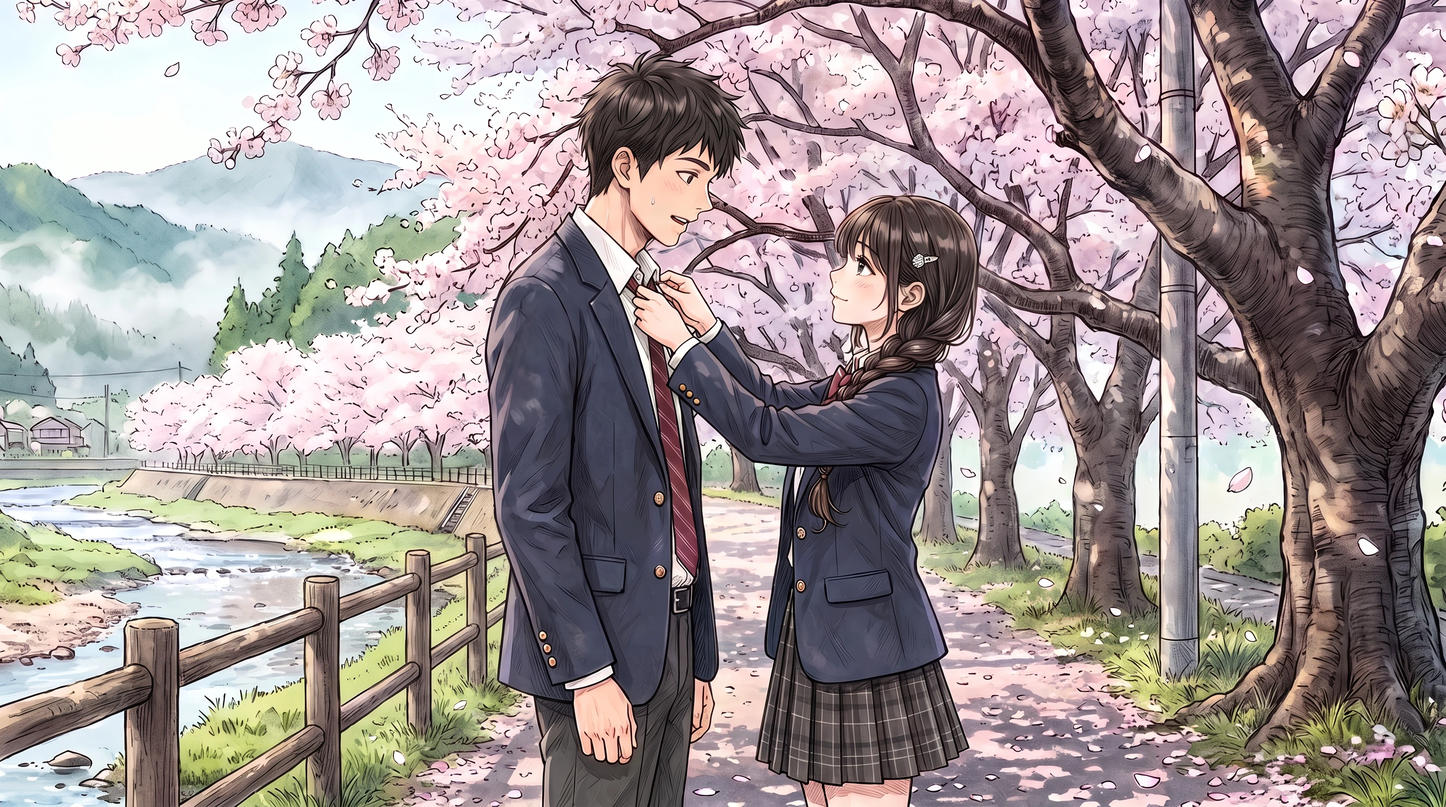
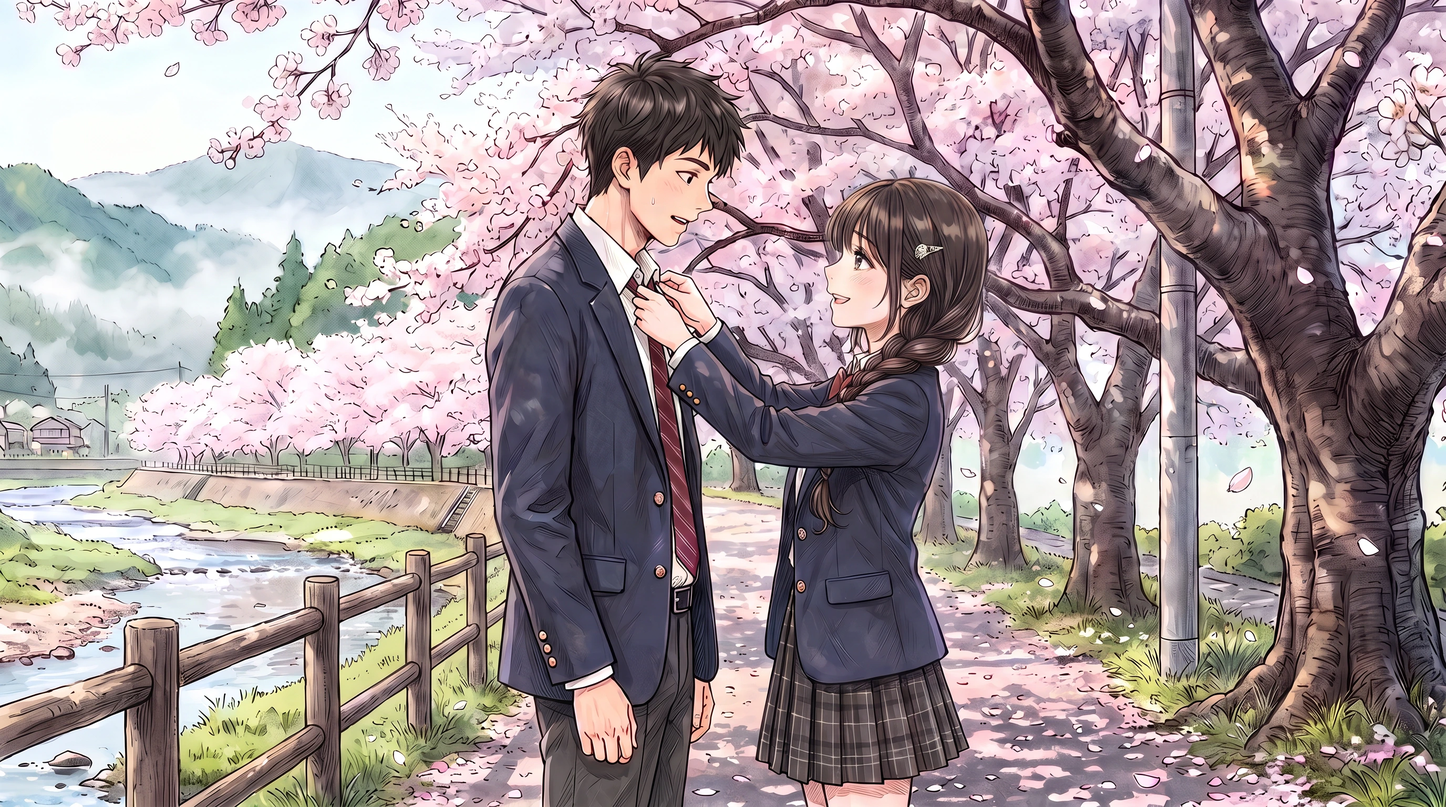
Pilot v2 Ch1: collar CG head-size edit (measured 0.77x crown to chin, 0.88x eye to chin); log and ledger
Claude-Session: https://claude.ai/code/session_01RwxJ99cbnypmrRJW8WLjFt

diff --git a/production/pilot-v2/art/prompts.md b/production/pilot-v2/art/prompts.md
@@ -15,7 +15,8 @@ Refs are raw GitHub URLs (`https://raw.githubusercontent.com/thefirstmccabe/ozak
 - **Current version (Oct 17, after the fifth check):** prompting alone kept getting her scale and the location wrong, so this one starts from a **layout sketch** (`production/pipeline/vn/cg_layout.py` → `production/pilot-v2/art/layout/cg_collar_layout.jpg`): a crop of `img/bg/bg_river_morning.webp` with Kōhei (`inventory/full-kohei.png`, mirrored) and Nanoha (`img/ch/nanoha_school_smile.webp`, lifted 2 in for her toes) pasted at their true heights (32 px per inch, frame bottom 24 in above the ground). Nanoha now stands on the right facing left, so her braid and clip (her left side) face the camera.
 - `fal-ai/nano-banana-pro/edit`, 2K, 16:9. Refs: the layout, `img/ch/nanoha_school_smile.webp`, `v2/img/face/kohei_smile.webp`. 2 takes; **picked seed 62**. Both takes moved the fence between them, so one edit moved it behind him ("Move the wooden fence to the LEFT of the boy, so it runs behind him along the top of the grassy embankment, between him and the river. Both of them now stand together on the same petal-strewn path …").
 - Prompt (key lines): "Repaint image 1 into one finished, seamless illustration in the same style. Image 1 is a layout: keep the location exactly as it is … keep both characters exactly where they stand and exactly this size. Do not shrink or enlarge either of them … Change only their poses: they turn to face each other … Kohei … turns right toward her, head tilted down, looking down at her … Nanoha … turns left toward him and stands up on her toes, both arms raised and bent upward, her hands at his neck folding his white shirt collar down … Her thick braid and her hair clip are on her left side, which now faces the viewer …" plus the uniform, style and color lines.
-- **Result:** both on the path, the fence between him and the river, her head at his chin, her head about 0.8× his (real proportions would be nearer 0.95), braid and clip on the visible side, arms raised.
+- **Then a head-size edit** (the sixth check measured her head at 0.6–0.65× his; Claude's earlier "about 0.8" was an eyeball estimate and wrong): "Redraw the girl with her head and shoulders about one third larger, so her head is nearly the same size as the boy's head, while the top of her head stays exactly where it is now … shorten her torso to match … Her two forearms stay clearly separate, and her fingertips hold the points of his white shirt collar …"
+- **Result (measured on a pixel grid):** her head is 0.77× his crown to chin and 0.88× eye to chin; the top of her head sits just below his eye line, right for 4′11″ on full tiptoe against 5′9″; both on the path, the fence between him and the river, braid and clip on the visible side, arms raised. **Measure head ratios on a grid; don't eyeball them.**
 - **For later two-character CGs:** start from a layout sketch at true heights; expect the model to drift on positions anyway and plan one edit pass; choose the side each character faces from their signature features.
 
 ### Fourth-review version (superseded)

diff --git a/story/production-log.md b/story/production-log.md
@@ -150,12 +150,13 @@ The old working bible (`ozakura/story-bible.md`) was retired Oct 8. Its contents
 | 10-17 | **Third independent review** (of the second round's fixes): the mirrored collar CG had also reversed the riverside against the background shown just before it, and the CG drew Nanoha about 5 inches too tall. **Redrawn** to match `bg_river_morning`, with her head reaching only his chin and her arms raised; her braid and clip (her left side) are on the far side in this view. A fast tap during the falter crossfade no longer cuts. In the interlude Natsuki now leans on the desk in front of hers (her sprite stands). Pilot notes list the remaining v2 [P] details. |
 | 10-17 | **Fourth independent check** (the new collar CG and the tap fix): the CG met "her head at his chin" by drawing her whole figure smaller (her head about two-thirds of his, so she read younger), stood them off the path, and lost her braid. **Redrawn again** with the cast lineup as a size reference: heads nearly the same size, both on the path, her braid hanging forward from her far (left) shoulder. A tap before the falter image has loaded no longer blinks the CG. |
 | 10-17 | **Fifth check** (collar CG only) still found her figure drawn small, the fence moved, and her hair off-model. **New method:** the CG is painted over a layout sketch with both characters pasted at their true heights on the river-path plate (`production/pipeline/vn/cg_layout.py`); Nanoha now faces left so her braid and clip face the camera. Both stand on the path with the fence behind him; her head comes to his chin. Method noted in `production/pilot-v2/art/prompts.md` for later two-character CGs. |
+| 10-17 | **Sixth check** (collar CG): her head measured 0.6–0.65× his (Claude had estimated 0.8 by eye, which was wrong). One edit enlarged her head and shoulders: now 0.77× crown to chin, 0.88× eye to chin, the top of her head just below his eyes on full tiptoe. Remaining nits a viewer won't notice at iPad size: the pole's yellow band is missing; her face is a little rounder than her sprite. |
 | 10-17 | **Image motif added (the author's idea):** past-life Natsuki in the white wedding hood (*wataboshi*), a late fragment before the long dreams, paid off by the wedding in Ch30 (canon scene bank 23; chapter map Ch27 and Ch30, placement a Proposal). |
 
 ## 3. Budget
 | Line | Cap | Spent | Notes |
 |---|---|---|---|
-| Pilot v2 (Prologue + Ch1–4), Oct 16 | $40 | about $8.35 after Ch1 | Ch1: ~37 images, 2 living stills, 40 voice takes, 4 rounds of transcript checks. Ledger: `production/pilot-v2/ledger.md` |
+| Pilot v2 (Prologue + Ch1–4), Oct 16 | $40 | about $8.50 after Ch1 | Ch1: ~37 images, 2 living stills, 40 voice takes, 4 rounds of transcript checks. Ledger: `production/pilot-v2/ledger.md` |
 | VN pilot | $100 | about $30–35 | |
 | Manga Vol. 1 | $50 | $33.01 | About $17 left |
 | Concept art, Oct 6 | none set (author-requested) | about $1–2 | 7 character images (NB2 1K) plus 4 house tests (NB2 2K) |

diff --git a/production/pilot-v2/ledger.md b/production/pilot-v2/ledger.md
@@ -20,5 +20,6 @@ Rates checked Oct 17: NB2 edit $0.08/image, NB Pro edit $0.15/image, bria cutout
 | 10-17 | Third review: collar CG redrawn (NB Pro 2K ×2) plus one braid edit | 3 | $0.45 |
 | 10-17 | Fourth review: collar CG redrawn again (NB Pro 2K ×2) plus one braid edit | 3 | $0.45 |
 | 10-17 | Fifth check: collar CG from a layout sketch (NB Pro 2K ×2) plus one fence edit | 3 | $0.45 |
+| 10-17 | Sixth check: collar CG head-size edit (NB Pro 2K) | 1 | $0.15 |
 
-**Total after Ch1: about $8.35 of $40.**
+**Total after Ch1: about $8.50 of $40.**
